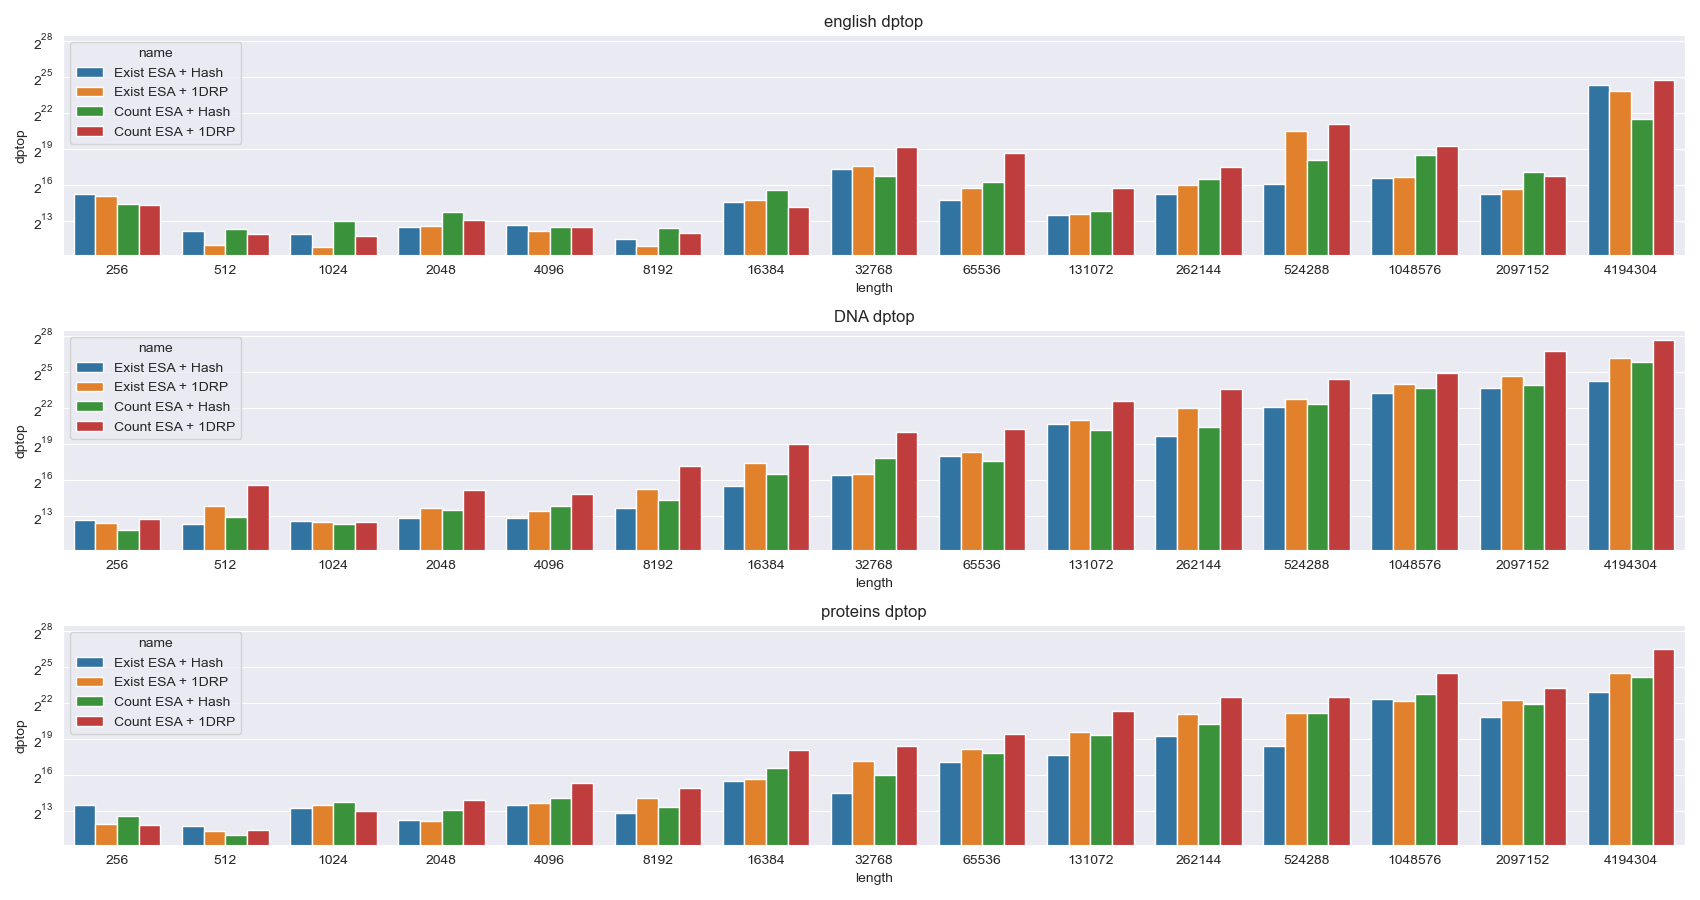
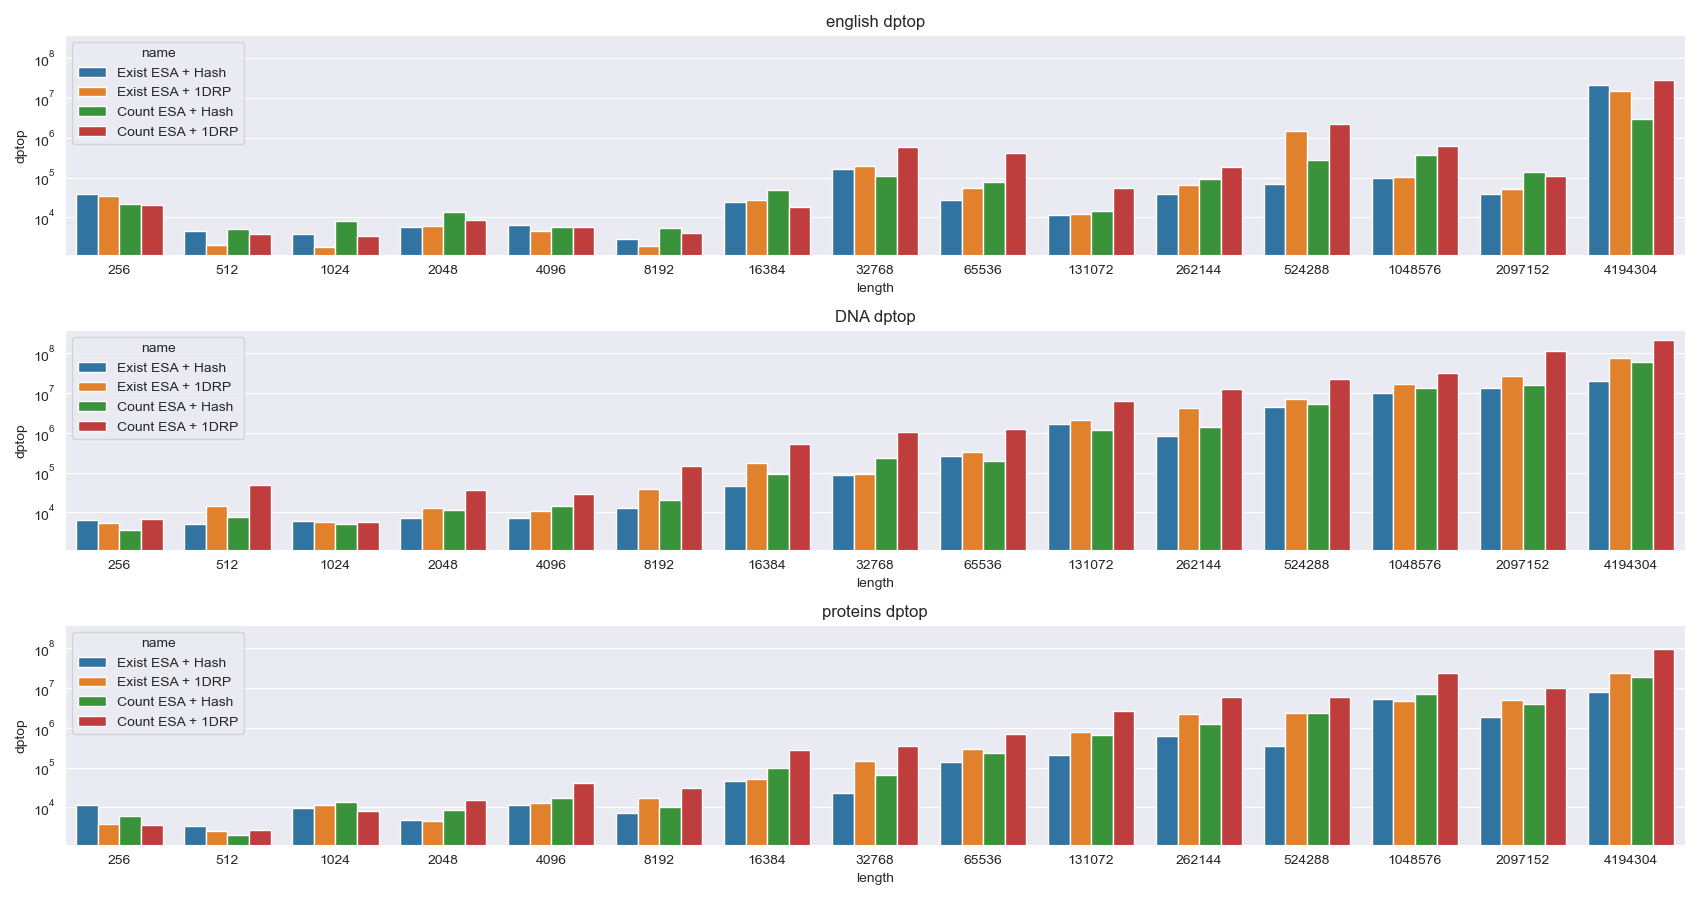
10 based

diff --git a/figures/createVariableReportingPlots.py b/figures/createVariableReportingPlots.py
@@ -33,7 +33,7 @@ for e in base_data_structures:
     dfBase = pd.concat([df,dfBase])
 
 fig, axes = plt.subplots(3,1,figsize=(11,16),sharey=True)
-plt.yscale('log', base=2)
+plt.yscale('log', base=10)
 dfDs = dfBase.loc[dfBase['data'] == 'english']
 sns.barplot(ax=axes[0], data = dfDs, hue='name', x='length', y='construction').set(title='english ' + 'construction')
 dfDs = dfBase.loc[dfBase['data'] == 'realDNA']
@@ -66,7 +66,7 @@ for e in base_data_structures:
 
 for q in query:
     fig, axes = plt.subplots(3,1,figsize=(11,16),sharey=True)
-    plt.yscale('log', base=2)
+    plt.yscale('log', base=10)
     dfDs = dfBase.loc[dfBase['data'] == 'english']
     sns.barplot(ax=axes[0], data = dfDs, hue='name', x='length', y=q).set(title='english ' + q)
     dfDs = dfBase.loc[dfBase['data'] == 'realDNA']

diff --git a/figures/createFixedReportingPlots.py b/figures/createFixedReportingPlots.py
@@ -25,7 +25,7 @@ for name in data_structures:
 
 fig, axes = plt.subplots(3,1,figsize=(11,16),sharey=True)
 
-plt.yscale('log', base=2)
+plt.yscale('log', base=10)
 dfDs = dfAll.loc[dfAll['data'] == 'english']
 sns.barplot(ax=axes[0], data = dfDs, hue='name', x='length', y='construction').set(title='english ' + 'construction')
 dfDs = dfAll.loc[dfAll['data'] == 'realDNA']
@@ -58,7 +58,7 @@ for name in data_structures:
 for q in query:
     fig, axes = plt.subplots(3,1,figsize=(11,16),sharey=True)
     
-    plt.yscale('log', base=2)
+    plt.yscale('log', base=10)
     dfDs = dfAll.loc[dfAll['data'] == 'english']
     sns.barplot(ax=axes[0], data = dfDs, hue='name', x='length', y=q).set(title='english ' + q)
     dfDs = dfAll.loc[dfAll['data'] == 'realDNA']

diff --git a/figures/createExistenceAndCountPlots.py b/figures/createExistenceAndCountPlots.py
@@ -27,7 +27,7 @@ for ds in data_structures:
 sns.set_style('darkgrid')
 for q in query:
     fig, axes = plt.subplots(3,1,figsize=(17,9),sharey=True)
-    plt.yscale('log', base=2)
+    plt.yscale('log', base=10)
     dfDs = dfAll.loc[dfAll['data'] == 'english']
     sns.barplot(ax=axes[0], data = dfDs, hue='name', x='length', y=q).set(title='english ' + q)
     dfDs = dfAll.loc[dfAll['data'] == 'realDNA']

diff --git a/figures/createSinglePatternComparison.py b/figures/createSinglePatternComparison.py
@@ -20,7 +20,7 @@ sns.set_style('darkgrid')
 for q in query:
     fig, axes = plt.subplots(3,1,figsize=(11,16),sharey=True)
     
-    plt.yscale('log', base=2)
+    plt.yscale('log', base=10)
     dfDs = dfAll.loc[dfAll['data'] == 'english']
     sns.barplot(ax=axes[0], data = dfDs, hue='name', x='length', y=q).set(title='english ' + q)
     dfDs = dfAll.loc[dfAll['data'] == 'realDNA']
